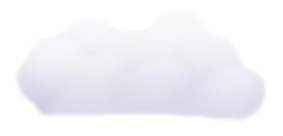
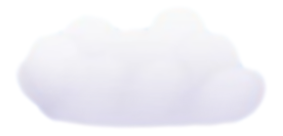
Update cloud 8 artwork and cache bust.

Changed region(s): [[0.1696, 0.8235, 0.8198, 0.9412]]

diff --git a/js/game.js b/js/game.js
@@ -240,7 +240,7 @@
     "Assets/cloud5.png?v=cloudv9",
     "Assets/cloud6.png?v=cloudv9",
     "Assets/cloud7.png?v=cloudv9",
-    "Assets/cloud8.png?v=cloudv9",
+    "Assets/cloud8.png?v=cloud8v10",
     "Assets/cloud9.png?v=cloudv9",
     "Assets/cloud10.png?v=cloudv9",
     "Assets/cloud11.png?v=cloudv9",

diff --git a/web/js/game.js b/web/js/game.js
@@ -240,7 +240,7 @@
     "Assets/cloud5.png?v=cloudv9",
     "Assets/cloud6.png?v=cloudv9",
     "Assets/cloud7.png?v=cloudv9",
-    "Assets/cloud8.png?v=cloudv9",
+    "Assets/cloud8.png?v=cloud8v10",
     "Assets/cloud9.png?v=cloudv9",
     "Assets/cloud10.png?v=cloudv9",
     "Assets/cloud11.png?v=cloudv9",
